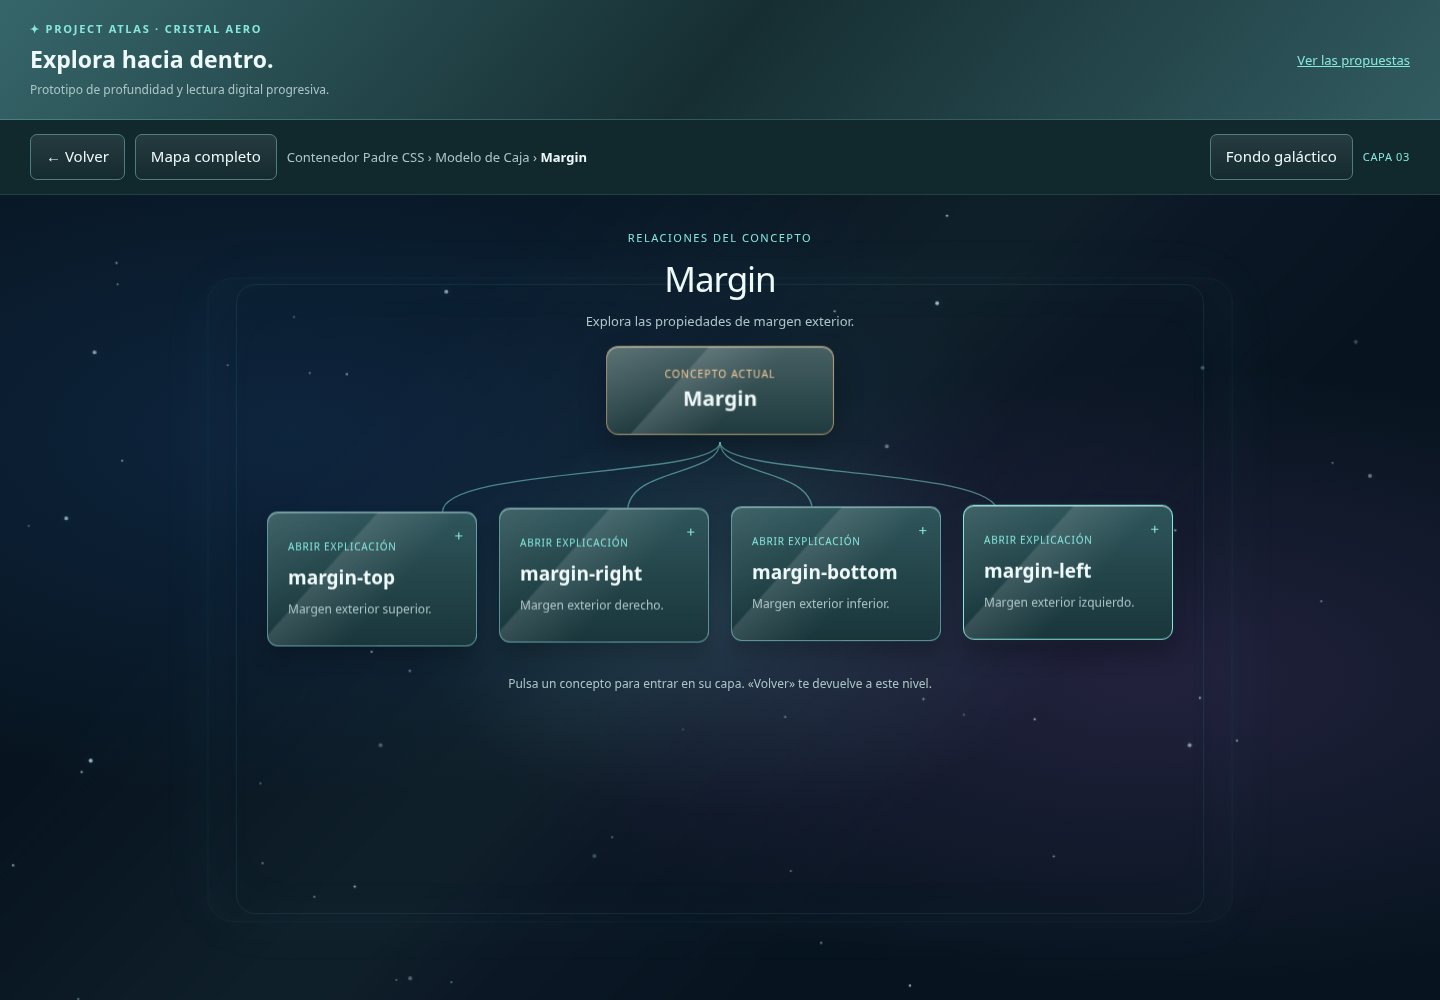
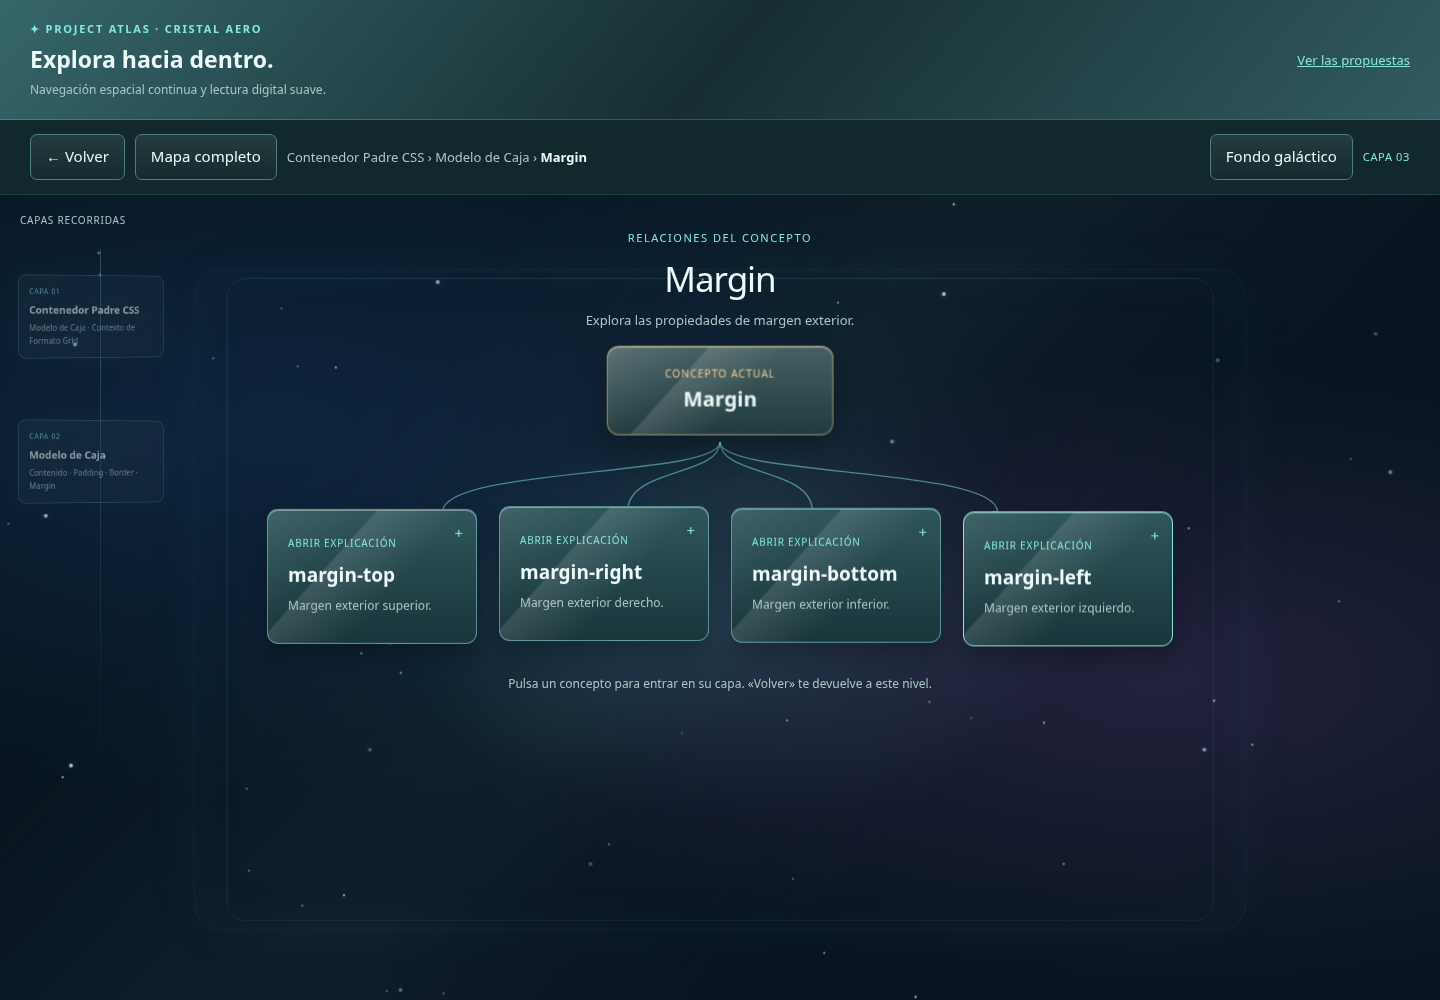
Slow Aero depth transitions and preserve spatial context with stable reading panel

diff --git a/design/concept-map-aero-depth.html b/design/concept-map-aero-depth.html
@@ -4,14 +4,18 @@
 
 /* Nebula and star layers provide depth without placing motion behind the text. */
 .galaxy{position:absolute;inset:-15%;pointer-events:none;overflow:hidden;transition:opacity 500ms,transform 1500ms;transform:translateZ(-200px) scale(1.25);background:radial-gradient(ellipse at 28% 35%,#2966b535,transparent 36%),radial-gradient(ellipse at 72% 57%,#8954ad35,transparent 35%),radial-gradient(ellipse at 51% 52%,#6de4d122,transparent 24%),#07141f}.galaxy:before{content:'';position:absolute;inset:0;opacity:.45;background:linear-gradient(145deg,transparent 30%,#759db51a 40%,#a2eee622 48%,#67579a20 54%,transparent 66%);filter:blur(24px);transform:rotate(-12deg)}.star-plane{position:absolute;inset:0;transition:transform 1300ms cubic-bezier(.22,.7,.2,1);transform:scale(var(--travel,1))}.star{position:absolute;width:2px;height:2px;border-radius:50%;background:#d8faff;opacity:var(--shine);box-shadow:0 0 5px #b7ebff60}.star-plane.near .star{width:3px;height:3px;box-shadow:0 0 9px #b7ebff90}.world.calm .galaxy{opacity:0}.world:not(.calm) .concept{animation:float 7s ease-in-out infinite;animation-delay:var(--drift,0s)}.world:not(.calm) .hub{animation:float 9s ease-in-out infinite}.world:not(.calm) .concept:hover,.world:not(.calm) .concept:focus-visible{animation-play-state:paused}.reading{background:#142d33}.depth-badge{white-space:nowrap}@keyframes float{0%,100%{translate:0 0}50%{translate:0 -6px}}@media(prefers-reduced-motion:reduce){.galaxy,.star-plane{transition:none!important}.concept,.hub{animation:none!important}}
-</style></head><body><header class="top"><div><div class="brand">✦ PROJECT ATLAS · CRISTAL AERO</div><h1>Explora hacia dentro.</h1><p>Prototipo de profundidad y lectura digital progresiva.</p></div><a href="concept-map-proposals.html">Ver las propuestas</a></header><nav class="navigation" aria-label="Navegación del mapa"><button id="back" disabled>← Volver</button><button id="overview">Mapa completo</button><div class="trail" id="trail" aria-live="polite">Contenedor Padre CSS</div><button id="galaxyToggle" aria-pressed="true">Fondo galáctico</button><span class="depth-badge" id="depth">CAPA 01</span></nav><main class="world" id="world" aria-label="Mapa conceptual en profundidad"><div class="galaxy" aria-hidden="true"><div class="star-plane far"></div><div class="star-plane near"></div></div><div class="portal"></div></main><footer>Prueba: Modelo de Caja → Margin → margin-left. El contenido es una muestra; no se consulta un LLM ni se modifica Atlas.</footer><script>
+
+/* A slower camera pass with persistent spatial context. Reading does not resize as blocks appear. */
+.world{perspective:1200px}.scene{transition:transform 1650ms cubic-bezier(.45,0,.18,1),opacity 1400ms ease,filter 1400ms ease}.scene.departing{transform:translateZ(850px) scale(1.18);opacity:0;filter:blur(2px)}.scene.arriving{transform:translateZ(-1100px);opacity:.15;filter:blur(1px)}.scene.retreating{transform:translateZ(-1100px);opacity:0;filter:blur(1px)}.scene.returning{transform:translateZ(850px);opacity:0;filter:blur(2px)}.reading{height:calc(100% - 105px);max-height:calc(100% - 105px);flex-shrink:0;transform:none;scrollbar-gutter:stable}.chunk{opacity:0;transform:translateY(8px);max-height:none;overflow:visible;transition:opacity 1000ms ease,transform 1100ms cubic-bezier(.2,.6,.2,1);visibility:hidden}.chunk.visible{opacity:1;transform:none;max-height:none;visibility:visible}.chunk:after{height:22px}.chunk.scanning:after{animation-duration:1400ms}.reading-head{min-height:64px}.reading-head button[hidden]{display:block!important;visibility:hidden;pointer-events:none}.reveal-status{min-height:58px}.memory-deck{position:absolute;inset:0;pointer-events:none;z-index:0}.memory{position:absolute;left:18px;top:var(--memory-y);width:190px;padding:13px;text-align:left;background:linear-gradient(140deg,#7bdedb15,#192c4290);border:1px solid #86e7dd50;border-radius:10px;opacity:.55;transform:perspective(1000px) rotateY(14deg) scale(.82);transform-origin:left center;transition:opacity 1000ms,transform 1650ms;pointer-events:auto;box-shadow:0 0 35px #86e7dd08}.memory:hover,.memory:focus-visible{opacity:1;transform:scale(.9)}.memory small{font-size:9px;letter-spacing:.08em;color:var(--accent);display:block}.memory strong{font-size:13px;display:block;margin:5px 0}.memory span{font-size:10px;color:var(--muted);display:block}.scene{z-index:1;pointer-events:none}.scene.current button,.scene.current .reading{pointer-events:auto}.scene h2:focus{outline:none}.memory-caption{position:absolute;left:20px;top:18px;font-size:10px;letter-spacing:.08em;color:var(--muted)}.memory-line{position:absolute;left:100px;top:55px;bottom:25%;width:1px;background:linear-gradient(#86e7dd40,transparent)}.world[data-depth="1"] .memory-deck{display:none}@media(max-width:1100px){.memory{width:145px;left:9px;opacity:.25;transform:scale(.72)}.memory-caption{font-size:9px;left:10px}.scene.current .children{max-width:800px}.concept{width:180px}.memory-line{left:55px}}@media(max-width:650px){.memory-deck{display:none}.reading{height:480px;max-height:none}.scene{overflow:auto}.concept{width:calc(50% - 8px)}}@media(prefers-reduced-motion:reduce){.scene,.memory,.chunk{transition:none!important}.chunk{opacity:1;transform:none;visibility:visible}.memory{transform:none}}
+</style></head><body><header class="top"><div><div class="brand">✦ PROJECT ATLAS · CRISTAL AERO</div><h1>Explora hacia dentro.</h1><p>Navegación espacial continua y lectura digital suave.</p></div><a href="concept-map-proposals.html">Ver las propuestas</a></header><nav class="navigation" aria-label="Navegación del mapa"><button id="back" disabled>← Volver</button><button id="overview">Mapa completo</button><div class="trail" id="trail" aria-live="polite">Contenedor Padre CSS</div><button id="galaxyToggle" aria-pressed="true">Fondo galáctico</button><span class="depth-badge" id="depth">CAPA 01</span></nav><main class="world" id="world" aria-label="Mapa conceptual en profundidad"><div class="galaxy" aria-hidden="true"><div class="star-plane far"></div><div class="star-plane near"></div></div><div class="portal"></div><aside class="memory-deck" aria-label="Capas anteriores del mapa"></aside></main><footer>Prueba: Modelo de Caja → Margin → margin-left. El contenido es una muestra; no se consulta un LLM ni se modifica Atlas.</footer><script>
 const tree={root:{name:'Contenedor Padre CSS',sub:'Cada concepto abre una capa de relaciones.',children:['box','grid']},box:{name:'Modelo de Caja',sub:'Un elemento combina contenido, relleno, borde y margen.',children:['content','padding','border','margin']},grid:{name:'Contexto de Formato Grid',sub:'Organiza el diseño en filas y columnas.',children:['columns','rows']},margin:{name:'Margin',sub:'Explora las propiedades de margen exterior.',children:['top','right','bottom','left']},content:{name:'Contenido',description:'Texto, imágenes y otros contenidos.'},padding:{name:'Padding',description:'Espacio entre el contenido y el borde.'},border:{name:'Border',description:'Borde alrededor del contenido y el relleno.'},columns:{name:'grid-template-columns',description:'Define las columnas explícitas de una rejilla.'},rows:{name:'grid-template-rows',description:'Define las filas explícitas de una rejilla.'},top:{name:'margin-top',description:'Margen exterior superior.'},right:{name:'margin-right',description:'Margen exterior derecho.'},bottom:{name:'margin-bottom',description:'Margen exterior inferior.'},left:{name:'margin-left',description:'Margen exterior izquierdo.'}};
 const world=document.getElementById('world'),back=document.getElementById('back'),trail=document.getElementById('trail'),depth=document.getElementById('depth'),reduce=matchMedia('(prefers-reduced-motion: reduce)');let route=['root'],timers=[],transitionTimer=null,serial=0;
 function cancelReveal(){timers.forEach(clearTimeout);timers=[]}function create(tag,cls,text){const el=document.createElement(tag);el.className=cls||'';if(text!==undefined)el.textContent=text;return el}
 function paragraph(text){const el=create('section','chunk');el.append(create('p','',text));return el}
 function explanation(id){const n=tree[id];if(id==='left')return [{title:'Qué es',text:'margin-left establece el margen exterior izquierdo de la caja de un elemento en CSS. Ese espacio queda fuera de su borde; no es relleno interior.'},{title:'Ejemplo',code:'.tarjeta {\n  margin-left: 24px;\n}',text:'En este ejemplo se declara un margen izquierdo de 24 píxeles. El efecto visual depende del contexto de diseño.',sample:true},{title:'Valores y matices',text:'Acepta longitudes, porcentajes y auto; también puede ser negativo. En el caso habitual, el porcentaje se calcula respecto al ancho del bloque contenedor. auto se resuelve según el contexto de diseño y no significa siempre «centrar».'},{title:'Cuándo elegir otra propiedad',text:'margin-left corresponde al lado físico izquierdo. Si buscas el margen de inicio según la dirección de escritura, considera margin-inline-start.'},{title:'Documentación',link:'https://developer.mozilla.org/es/docs/Web/CSS/margin-left'}];return [{title:'Qué es',text:n.description||n.sub},{title:'Cómo se relaciona',text:'Este concepto forma parte de '+tree[route.at(-2)||'root'].name+'. Aquí podrías leer una explicación guardada en Atlas y regresar al mapa sin perder el contexto.'},{title:'Contenido de demostración',text:'Esta ficha prueba la lectura progresiva. En Atlas, el contenido procedería de la entrada vinculada o de una explicación solicitada explícitamente.'}]}
-function reader(id){const reading=create('article','reading'),head=create('div','reading-head'),status=create('div','reveal-status','Desplegando explicación…'),body=create('div','reading-body'),show=create('button','','Mostrar todo');status.setAttribute('role','status');status.setAttribute('aria-live','polite');head.append(create('span','','LECTURA DIGITAL · POR BLOQUES'),show);reading.append(head,body,status);explanation(id).forEach(data=>{const chunk=create('section','chunk');chunk.append(create('h3','',data.title));if(data.code){const pre=create('pre');pre.append(create('code','',data.code));chunk.append(pre)}if(data.text)chunk.append(create('p','',data.text));if(data.sample){const sample=create('div','sample');sample.setAttribute('aria-label','Ejemplo ilustrativo: margen de 24 píxeles a la izquierda de una tarjeta');const parent=create('div','parent');parent.append(create('div','space'),create('div','box','Tarjeta'));sample.append(parent);chunk.append(sample)}if(data.link){const a=create('a','','Consultar MDN: margin-left ↗');a.href=data.link;a.target='_blank';a.rel='noopener noreferrer';chunk.append(a)}body.append(chunk)});const chunks=[...body.children];function finish(){status.textContent='Explicación completa · puedes volver al mapa';status.classList.add('done');show.hidden=true}function revealAll(){cancelReveal();chunks.forEach(c=>{c.classList.add('visible');c.classList.remove('scanning')});finish()}show.addEventListener('click',revealAll);reading.start=()=>{if(reduce.matches){revealAll();return}chunks.forEach((c,i)=>timers.push(setTimeout(()=>{c.classList.add('visible','scanning');if(i===chunks.length-1){timers.push(setTimeout(finish,700))}},450+i*1150)))};reading.finish=revealAll;return reading}
+function reader(id){const reading=create('article','reading'),head=create('div','reading-head'),status=create('div','reveal-status','Desplegando explicación…'),body=create('div','reading-body'),show=create('button','','Mostrar todo');status.setAttribute('role','status');status.setAttribute('aria-live','polite');head.append(create('span','','LECTURA DIGITAL · POR BLOQUES'),show);reading.append(head,body,status);explanation(id).forEach(data=>{const chunk=create('section','chunk');chunk.append(create('h3','',data.title));if(data.code){const pre=create('pre');pre.append(create('code','',data.code));chunk.append(pre)}if(data.text)chunk.append(create('p','',data.text));if(data.sample){const sample=create('div','sample');sample.setAttribute('aria-label','Ejemplo ilustrativo: margen de 24 píxeles a la izquierda de una tarjeta');const parent=create('div','parent');parent.append(create('div','space'),create('div','box','Tarjeta'));sample.append(parent);chunk.append(sample)}if(data.link){const a=create('a','','Consultar MDN: margin-left ↗');a.href=data.link;a.target='_blank';a.rel='noopener noreferrer';chunk.append(a)}body.append(chunk)});const chunks=[...body.children];function finish(){status.textContent='Explicación completa · puedes volver al mapa';status.classList.add('done');show.hidden=true}function revealAll(){cancelReveal();chunks.forEach(c=>{c.classList.add('visible');c.classList.remove('scanning')});finish()}show.addEventListener('click',revealAll);reading.start=()=>{if(reduce.matches){revealAll();return}chunks.forEach((c,i)=>timers.push(setTimeout(()=>{c.classList.add('visible','scanning');if(i===chunks.length-1){timers.push(setTimeout(finish,1100))}},200+i*1550)))};reading.finish=revealAll;return reading}
 function build(id){const n=tree[id],scene=create('section','scene'),title=create('div','layer-title');scene.dataset.concept=id;title.append(create('small','',n.children?'RELACIONES DEL CONCEPTO':'EXPLICACIÓN DEL CONCEPTO'),create('h2','',n.name));if(n.children)title.append(create('p','',n.sub));scene.append(create('div','ambient'),title);if(n.children){const hub=create('div','hub');hub.append(create('small','','CONCEPTO ACTUAL'),create('strong','',n.name));scene.append(hub);const svg=document.createElementNS('http://www.w3.org/2000/svg','svg');svg.classList.add('stems');svg.setAttribute('viewBox','0 0 740 70');svg.setAttribute('aria-hidden','true');n.children.forEach((child,i)=>{const p=document.createElementNS(svg.namespaceURI,'path'),x=740*(i+.5)/n.children.length;p.setAttribute('d',`M370 0 C370 35 ${x} 25 ${x} 70`);svg.append(p)});scene.append(svg);const children=create('div','children');n.children.forEach(child=>{const button=create('button','concept');button.dataset.target=child;button.style.setProperty('--drift',(-n.children.indexOf(child)*1.5)+'s');button.append(create('span','tag',tree[child].children?'EXPLORAR RAMAS':'ABRIR EXPLICACIÓN'),create('strong','',tree[child].name),create('span','description',tree[child].description||tree[child].sub),create('span','enter','+'));button.addEventListener('click',()=>enter(child));children.append(button)});scene.append(children,create('p','scene-note','Pulsa un concepto para entrar en su capa. «Volver» te devuelve a este nivel.'))}else{const reading=reader(id);scene.append(reading);scene.reader=reading}return scene}
-function display(direction='in',initial=false){cancelReveal();clearTimeout(transitionTimer);serial++;const turn=serial;world.querySelectorAll('.scene:not(.current)').forEach(el=>el.remove());const old=world.querySelector('.current'),next=build(route.at(-1));if(old){old.classList.remove('current');old.inert=true;old.classList.add(direction==='out'?'retreating':'departing')}next.classList.add('current');if(!initial&&!reduce.matches)next.classList.add(direction==='out'?'returning':'arriving');world.append(next);requestAnimationFrame(()=>requestAnimationFrame(()=>next.classList.remove('arriving','returning')));back.disabled=route.length===1;trail.replaceChildren();route.forEach((id,i)=>{if(i)trail.append(document.createTextNode(' › '));trail.append(create(i===route.length-1?'strong':'span','',tree[id].name))});world.querySelector('.star-plane.far').style.setProperty('--travel',1+(route.length-1)*.04);world.querySelector('.star-plane.near').style.setProperty('--travel',1+(route.length-1)*.12);depth.textContent='CAPA '+String(route.length).padStart(2,'0');transitionTimer=setTimeout(()=>{if(turn!==serial)return;if(old)old.remove();next.reader?.start();if(!initial){next.querySelector('h2').tabIndex=-1;next.querySelector('h2').focus({preventScroll:true})}},initial||reduce.matches?0:680)}
+function spatialContext(){world.dataset.depth=String(route.length);const deck=world.querySelector('.memory-deck');deck.replaceChildren();if(route.length<2)return;deck.append(create('span','memory-caption','CAPAS RECORRIDAS'),create('div','memory-line'));route.slice(0,-1).forEach((id,i)=>{const n=tree[id],card=create('button','memory');card.style.setProperty('--memory-y',(70+i*145)+'px');card.append(create('small','','CAPA '+String(i+1).padStart(2,'0')),create('strong','',n.name),create('span','',(n.children||[]).map(child=>tree[child].name).join(' · ')));card.setAttribute('aria-label','Volver a '+n.name);card.addEventListener('click',()=>{route=route.slice(0,i+1);display('out')});deck.append(card)})}
+function display(direction='in',initial=false){cancelReveal();clearTimeout(transitionTimer);serial++;const turn=serial;world.querySelectorAll('.scene:not(.current)').forEach(el=>el.remove());const old=world.querySelector('.current'),next=build(route.at(-1));if(old){old.classList.remove('current');old.inert=true;old.classList.add(direction==='out'?'retreating':'departing')}spatialContext();next.classList.add('current');if(!initial&&!reduce.matches)next.classList.add(direction==='out'?'returning':'arriving');world.append(next);requestAnimationFrame(()=>requestAnimationFrame(()=>next.classList.remove('arriving','returning')));back.disabled=route.length===1;trail.replaceChildren();route.forEach((id,i)=>{if(i)trail.append(document.createTextNode(' › '));trail.append(create(i===route.length-1?'strong':'span','',tree[id].name))});world.querySelector('.star-plane.far').style.setProperty('--travel',1+(route.length-1)*.04);world.querySelector('.star-plane.near').style.setProperty('--travel',1+(route.length-1)*.12);depth.textContent='CAPA '+String(route.length).padStart(2,'0');transitionTimer=setTimeout(()=>{if(turn!==serial)return;if(old)old.remove();next.reader?.start();if(!initial){next.querySelector('h2').tabIndex=-1;next.querySelector('h2').focus({preventScroll:true})}},initial||reduce.matches?0:1700)}
 function enter(id){route.push(id);display('in')}back.addEventListener('click',()=>{if(route.length>1){route.pop();display('out')}});document.getElementById('overview').addEventListener('click',()=>{if(route.length>1){route=['root'];display('out')}});reduce.addEventListener('change',()=>{if(reduce.matches)world.querySelector('.current')?.reader?.finish()});let seed=741;function random(){seed=(seed*16807)%2147483647;return seed/2147483647}world.querySelectorAll('.star-plane').forEach((plane,i)=>{for(let j=0;j<(i?45:110);j++){const star=create('i','star');star.style.cssText=`left:${random()*100}%;top:${random()*100}%;--shine:${.2+random()*.6}`;plane.append(star)}});document.getElementById('galaxyToggle').addEventListener('click',e=>{const calm=world.classList.toggle('calm');e.currentTarget.setAttribute('aria-pressed',String(!calm));e.currentTarget.textContent=calm?'Activar galaxia':'Fondo galáctico'});display('in',true);
 </script></body></html>
